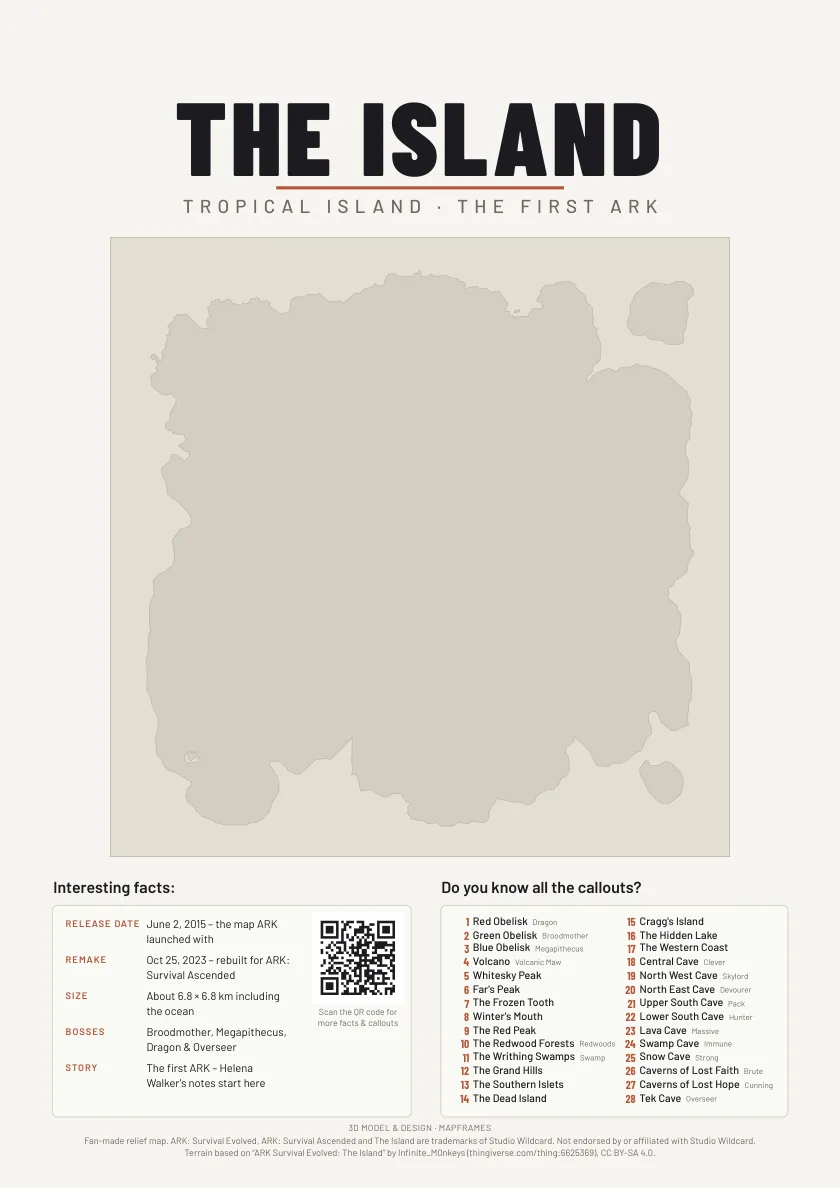
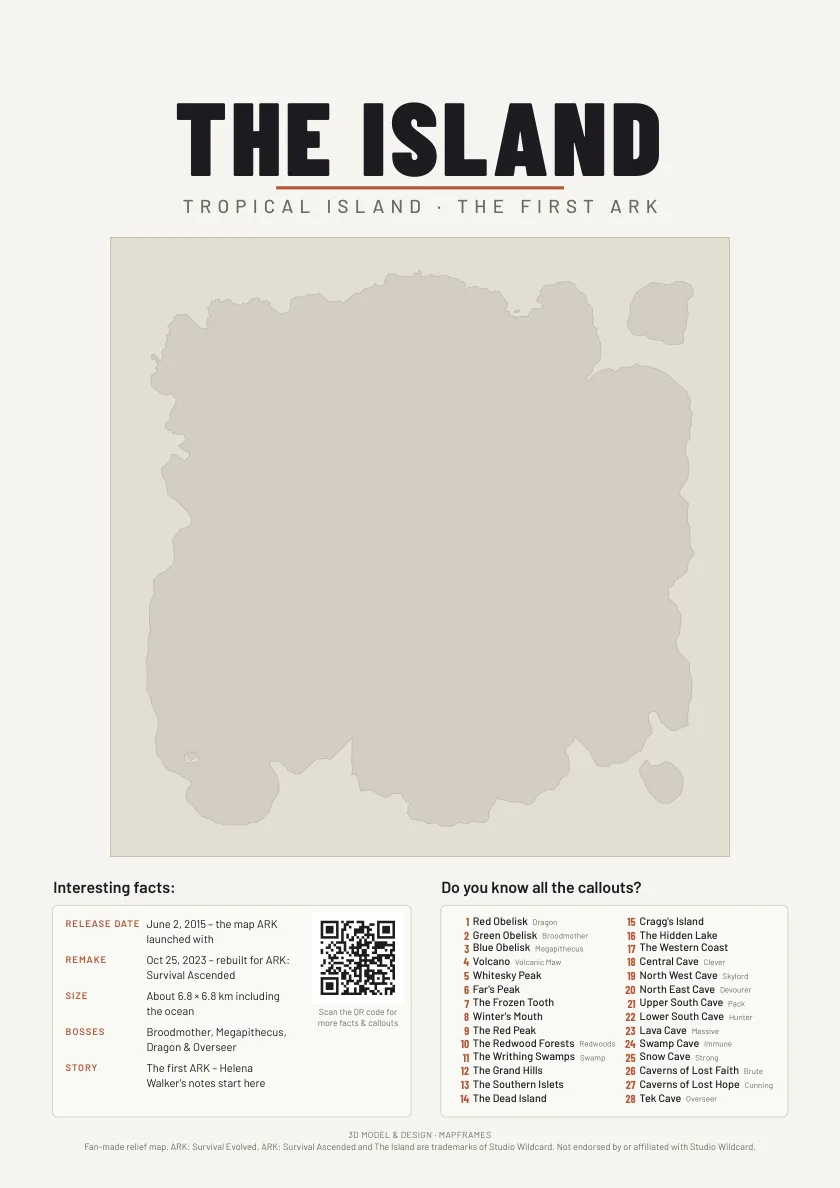
The Island: drop terrain attribution from poster and footer

Changed region(s): [[0.1238, 0.9343, 0.8976, 0.9966]]

diff --git a/the-island/index.html b/the-island/index.html
@@ -47,7 +47,7 @@
 <section class="about wrap"><h2>About The Island</h2><dl class="facts"><div><dt>Release date</dt><dd>June 2, 2015 – the map ARK: Survival Evolved launched with</dd></div><div><dt>Remake</dt><dd>October 25, 2023 – rebuilt in Unreal Engine 5 for ARK: Survival Ascended</dd></div><div><dt>Size</dt><dd>About 6.8 × 6.8 km including the ocean</dd></div><div><dt>Bosses</dt><dd>Broodmother Lysrix, Megapithecus and the Dragon at the three Obelisks, the Overseer in the Tek Cave</dd></div><div><dt>Story</dt><dd>The first ARK of the story – Helena Walker&#x27;s explorer notes begin here</dd></div><div><dt>The relief</dt><dd>Built from the game&#x27;s Dev Kit terrain, close to true vertical scale (about 0.9×) – no height exaggeration</dd></div></dl></section>
 <section class="more wrap"><h2>All ARK maps</h2><div class="tiles"><a class="tile" href="./" aria-current="page"><span class="im"><img src="../assets/the-island-thumb.webp" alt="" loading="lazy"></span><b>The Island</b><span>ARK: Survival Evolved &amp; Ascended</span><span>42 callouts</span></a></div></section>
 </main>
-<footer><div class="wrap"><span>Mapframes, 3D-printed relief maps. <a href="../frame/">What is in the frame</a></span><span>Fan-made project. ARK: Survival Evolved, ARK: Survival Ascended and all related names are trademarks of Studio Wildcard. Not endorsed by or affiliated with Studio Wildcard. The Island terrain is based on <a href="https://www.thingiverse.com/thing:6625369">“ARK Survival Evolved: The Island” by Infinite_M0nkeys</a>, <a href="https://creativecommons.org/licenses/by-sa/4.0/">CC BY-SA 4.0</a>.</span></div></footer>
+<footer><div class="wrap"><span>Mapframes, 3D-printed relief maps. <a href="../frame/">What is in the frame</a></span><span>Fan-made project. ARK: Survival Evolved, ARK: Survival Ascended and all related names are trademarks of Studio Wildcard. Not endorsed by or affiliated with Studio Wildcard.</span></div></footer>
 <script type="application/json" id="data">{"slug": "the-island", "name": "The Island", "groups": {"Obelisks": "Obelisks", "Peaks": "Peaks", "Regions": "Regions", "Caves": "Caves"}, "callouts": [{"n": "Red Obelisk", "a": "Dragon", "d": "Red tower in the south-west. In single player the Dragon is summoned here.", "note": "", "g": "Obelisks", "p": 1, "x": 11.91, "y": 84.77, "o": 1}, {"n": "Green Obelisk", "a": "Broodmother", "d": "Green tower in the south-east. In single player Broodmother Lysrix is summoned here.", "note": "", "g": "Obelisks", "p": 2, "x": 76.03, "y": 60.35, "o": 1}, {"n": "Blue Obelisk", "a": "Megapithecus", "d": "Blue tower in the snowy north-west. In single player the Megapithecus is summoned here.", "note": "", "g": "Obelisks", "p": 3, "x": 21.48, "y": 21.24, "o": 1}, {"n": "Volcano", "a": "Volcanic Maw", "d": "Active volcano in the middle of the island, about 600 m above the sea – the tallest cone on the relief.", "note": "", "g": "Peaks", "p": 4, "x": 36.18, "y": 42.77, "o": 1}, {"n": "Whitesky Peak", "a": "", "d": "The big snow range in the north-west. Cold, high and full of yetis and wolves.", "note": "", "g": "Peaks", "p": 5, "x": 21.39, "y": 22.51, "o": 1}, {"n": "Far's Peak", "a": "", "d": "Lone mountain in the north-east above the Eastern Forest.", "note": "", "g": "Peaks", "p": 6, "x": 82.23, "y": 31.74, "o": 1}, {"n": "The Frozen Tooth", "a": "", "d": "Rocky mountain north of the big river, between the Volcano and the east coast.", "note": "", "g": "Peaks", "p": 7, "x": 60.3, "y": 33.79, "o": 1}, {"n": "Winter's Mouth", "a": "", "d": "Second snow massif on the north coast, east of Whitesky Peak.", "note": "", "g": "Peaks", "p": 8, "x": 53.56, "y": 16.16, "o": 1}, {"n": "The Red Peak", "a": "", "d": "Mountain in the heart of the Redwood Forests, south of the big river.", "note": "", "g": "Peaks", "p": 9, "x": 47.75, "y": 57.52, "o": 1}, {"n": "The Redwood Forests", "a": "Redwoods", "d": "Giant redwood trees around the Red Peak. Popular base spot – and Thylacoleo country.", "note": "", "g": "Regions", "p": 10, "x": 39.45, "y": 56.4, "o": 1}, {"n": "The Writhing Swamps", "a": "Swamp", "d": "Wet lowland south of the Redwoods with the Swamp Cave – Sarcos, leeches and Titanoboas.", "note": "", "g": "Regions", "p": 11, "x": 42.97, "y": 69.82, "o": 1}, {"n": "The Grand Hills", "a": "", "d": "Rolling hills around the Volcano, north of the big river.", "note": "", "g": "Regions", "p": 12, "x": 40.19, "y": 38.77, "o": 1}, {"n": "The Southern Islets", "a": "", "d": "Chain of small islands and bays along the south coast.", "note": "", "g": "Regions", "p": 13, "x": 59.77, "y": 78.96, "o": 1}, {"n": "The Dead Island", "a": "", "d": "Small separate island off the north-east corner.", "note": "", "g": "Regions", "p": 14, "x": 89.45, "y": 10.74, "o": 1}, {"n": "Cragg's Island", "a": "", "d": "Round island off the south-west tip, next to the Red Obelisk.", "note": "", "g": "Regions", "p": 15, "x": 19.58, "y": 90.62, "o": 1}, {"n": "The Hidden Lake", "a": "", "d": "Small lake tucked into the north-east hills.", "note": "", "g": "Regions", "p": 16, "x": 72.75, "y": 17.72, "o": 1}, {"n": "The Western Coast", "a": "", "d": "Long west shoreline – the classic easy start for new survivors.", "note": "", "g": "Regions", "p": 17, "x": 9.67, "y": 60.16, "o": 1}, {"n": "Central Cave", "a": "", "d": "Standard cave near the Volcano.", "note": "Artifact of the Clever inside.", "g": "Caves", "p": 18, "x": 46.34, "y": 40.04, "o": 1}, {"n": "North West Cave", "a": "", "d": "Standard cave in the far north-west.", "note": "Artifact of the Skylord inside.", "g": "Caves", "p": 19, "x": 13.77, "y": 14.11, "o": 1}, {"n": "North East Cave", "a": "", "d": "Standard cave on the Dead Island in the north-east.", "note": "Artifact of the Devourer inside.", "g": "Caves", "p": 20, "x": 91.31, "y": 8.74, "o": 1}, {"n": "Upper South Cave", "a": "", "d": "Standard cave in the south.", "note": "Artifact of the Pack inside.", "g": "Caves", "p": 21, "x": 57.23, "y": 71.24, "o": 1}, {"n": "Lower South Cave", "a": "", "d": "Standard cave near the south coast.", "note": "Artifact of the Hunter inside.", "g": "Caves", "p": 22, "x": 54.05, "y": 85.35, "o": 1}, {"n": "Lava Cave", "a": "", "d": "Standard cave on the south-east coast, full of lava.", "note": "Artifact of the Massive inside.", "g": "Caves", "p": 23, "x": 92.14, "y": 74.02, "o": 1}, {"n": "Swamp Cave", "a": "", "d": "Hard cave in the swamp – very high-level creatures.", "note": "Artifact of the Immune inside.", "g": "Caves", "p": 24, "x": 35.16, "y": 64.79, "o": 1}, {"n": "Snow Cave", "a": "", "d": "Hard cave in the Whitesky Peak range.", "note": "Artifact of the Strong inside.", "g": "Caves", "p": 25, "x": 28.71, "y": 25.54, "o": 1}, {"n": "Caverns of Lost Faith", "a": "", "d": "Underwater cave off the west coast.", "note": "Artifact of the Brute inside.", "g": "Caves", "p": 26, "x": 3.71, "y": 54.3, "o": 1}, {"n": "Caverns of Lost Hope", "a": "", "d": "Hard underwater cave off the east coast.", "note": "Artifact of the Cunning inside.", "g": "Caves", "p": 27, "x": 95.41, "y": 45.17, "o": 1}, {"n": "Tek Cave", "a": "Overseer", "d": "Entrance inside the Volcano. Leads to the Overseer arena and the ascension.", "note": "", "g": "Caves", "p": 28, "x": 37.26, "y": 41.89, "o": 1}, {"n": "The Footpaw", "a": "", "d": "Peninsula in the south-west shaped like a paw.", "note": "", "g": "Regions", "p": 0, "x": 30.81, "y": 80.47, "o": 1}, {"n": "Southern Jungle", "a": "", "d": "Dense jungle in the south-west.", "note": "", "g": "Regions", "p": 0, "x": 15.38, "y": 75.68, "o": 1}, {"n": "Weathertop", "a": "", "d": "Hill on the Footpaw peninsula.", "note": "", "g": "Regions", "p": 0, "x": 30.37, "y": 76.81, "o": 1}, {"n": "Drayo's Cove", "a": "", "d": "Small bay on the south-east coast near the Lava Cave.", "note": "", "g": "Regions", "p": 0, "x": 87.7, "y": 73.83, "o": 1}, {"n": "Smuggler's Pass", "a": "", "d": "Pass through the north-east hills.", "note": "", "g": "Regions", "p": 0, "x": 69.82, "y": 30.22, "o": 1}, {"n": "The Frozen Sea", "a": "", "d": "Icy coast and floes north-west of Whitesky Peak.", "note": "", "g": "Regions", "p": 0, "x": 10.84, "y": 12.5, "o": 1}, {"n": "The Maw", "a": "", "d": "Lowland around the big river south of the Frozen Tooth.", "note": "", "g": "Regions", "p": 0, "x": 59.77, "y": 41.7, "o": 1}, {"n": "The Gulch of Lamentation", "a": "", "d": "Ravine on the east coast.", "note": "", "g": "Regions", "p": 0, "x": 90.97, "y": 52.44, "o": 1}, {"n": "The Eastern Forest", "a": "", "d": "Forest covering the east of the island.", "note": "", "g": "Regions", "p": 0, "x": 80.57, "y": 48.0, "o": 1}, {"n": "Northern Shores", "a": "", "d": "North-east coast and hills.", "note": "", "g": "Regions", "p": 0, "x": 71.0, "y": 23.44, "o": 1}, {"n": "The Western Plains", "a": "", "d": "Open grassland west of the Volcano.", "note": "", "g": "Regions", "p": 0, "x": 24.61, "y": 40.19, "o": 1}, {"n": "The Western Approach", "a": "", "d": "Hills between the west coast and the swamp.", "note": "", "g": "Regions", "p": 0, "x": 20.07, "y": 54.3, "o": 1}, {"n": "The Frigid Plains", "a": "", "d": "Snowy plain between the two northern snow massifs.", "note": "", "g": "Regions", "p": 0, "x": 41.11, "y": 17.29, "o": 1}, {"n": "The Frozen Fang", "a": "", "d": "Icy peak at the heart of Winter's Mouth.", "note": "", "g": "Regions", "p": 0, "x": 53.91, "y": 18.26, "o": 1}]}</script>
 <script src="../assets/map.js"></script>
 </body>

diff --git a/frame/index.html b/frame/index.html
@@ -35,7 +35,7 @@
 </section>
 <section class="wrap" aria-label="Maps"><h2 class="more-h">Find the callouts for your map</h2><div class="tiles"><a class="tile" href="../abyss/"><span class="im"><img src="../assets/abyss-thumb.webp" alt="" loading="lazy"></span><b>Abyss</b><span>Jan Mayen, Norway</span><span>23 callouts</span></a><a class="tile" href="../ascent/"><span class="im"><img src="../assets/ascent-thumb.webp" alt="" loading="lazy"></span><b>Ascent</b><span>Venice, Italy</span><span>68 callouts</span></a><a class="tile" href="../bind/"><span class="im"><img src="../assets/bind-thumb.webp" alt="" loading="lazy"></span><b>Bind</b><span>Rabat, Morocco</span><span>28 callouts</span></a><a class="tile" href="../breeze/"><span class="im"><img src="../assets/breeze-thumb.webp" alt="" loading="lazy"></span><b>Breeze</b><span>Bermuda Triangle, Atlantic</span><span>23 callouts</span></a><a class="tile" href="../fracture/"><span class="im"><img src="../assets/fracture-thumb.webp" alt="" loading="lazy"></span><b>Fracture</b><span>New Mexico, USA</span><span>22 callouts</span></a><a class="tile" href="../haven/"><span class="im"><img src="../assets/haven-thumb.webp" alt="" loading="lazy"></span><b>Haven</b><span>Thimphu, Bhutan</span><span>29 callouts</span></a><a class="tile" href="../icebox/"><span class="im"><img src="../assets/icebox-thumb.webp" alt="" loading="lazy"></span><b>Icebox</b><span>Bennett Island, Russia</span><span>25 callouts</span></a><a class="tile" href="../lotus/"><span class="im"><img src="../assets/lotus-thumb.webp" alt="" loading="lazy"></span><b>Lotus</b><span>Western Ghats, India</span><span>28 callouts</span></a><a class="tile" href="../pearl/"><span class="im"><img src="../assets/pearl-thumb.webp" alt="" loading="lazy"></span><b>Pearl</b><span>Lisbon, Portugal</span><span>26 callouts</span></a><a class="tile" href="../split/"><span class="im"><img src="../assets/split-thumb.webp" alt="" loading="lazy"></span><b>Split</b><span>Tokyo, Japan</span><span>24 callouts</span></a><a class="tile" href="../sunset/"><span class="im"><img src="../assets/sunset-thumb.webp" alt="" loading="lazy"></span><b>Sunset</b><span>Los Angeles, USA</span><span>17 callouts</span></a><a class="tile" href="../the-island/"><span class="im"><img src="../assets/the-island-thumb.webp" alt="" loading="lazy"></span><b>The Island</b><span>ARK: Survival Evolved &amp; Ascended</span><span>42 callouts</span></a></div></section>
 </main>
-<footer><div class="wrap"><span>Mapframes, 3D-printed relief maps. <a href="../frame/">What is in the frame</a></span><span>Fan-made project. VALORANT and all related names are trademarks of Riot Games, Inc. Not endorsed by or affiliated with Riot Games. ARK: Survival Evolved, ARK: Survival Ascended and all related names are trademarks of Studio Wildcard. Not endorsed by or affiliated with Studio Wildcard. The Island terrain is based on <a href="https://www.thingiverse.com/thing:6625369">“ARK Survival Evolved: The Island” by Infinite_M0nkeys</a>, <a href="https://creativecommons.org/licenses/by-sa/4.0/">CC BY-SA 4.0</a>.</span></div></footer>
+<footer><div class="wrap"><span>Mapframes, 3D-printed relief maps. <a href="../frame/">What is in the frame</a></span><span>Fan-made project. VALORANT and all related names are trademarks of Riot Games, Inc. Not endorsed by or affiliated with Riot Games. ARK: Survival Evolved, ARK: Survival Ascended and all related names are trademarks of Studio Wildcard. Not endorsed by or affiliated with Studio Wildcard.</span></div></footer>
 <script src="../assets/xv.js"></script>
 </body>
 </html>

diff --git a/index.html b/index.html
@@ -27,7 +27,7 @@
   </div>
 </section>
 </main>
-<footer><div class="wrap"><span>Mapframes, 3D-printed relief maps. <a href="frame/">What is in the frame</a></span><span>Fan-made project. VALORANT and all related names are trademarks of Riot Games, Inc. Not endorsed by or affiliated with Riot Games. ARK: Survival Evolved, ARK: Survival Ascended and all related names are trademarks of Studio Wildcard. Not endorsed by or affiliated with Studio Wildcard. The Island terrain is based on <a href="https://www.thingiverse.com/thing:6625369">“ARK Survival Evolved: The Island” by Infinite_M0nkeys</a>, <a href="https://creativecommons.org/licenses/by-sa/4.0/">CC BY-SA 4.0</a>.</span></div></footer>
+<footer><div class="wrap"><span>Mapframes, 3D-printed relief maps. <a href="frame/">What is in the frame</a></span><span>Fan-made project. VALORANT and all related names are trademarks of Riot Games, Inc. Not endorsed by or affiliated with Riot Games. ARK: Survival Evolved, ARK: Survival Ascended and all related names are trademarks of Studio Wildcard. Not endorsed by or affiliated with Studio Wildcard.</span></div></footer>
 <script>(function(){var b=[].slice.call(document.querySelectorAll('.game-btn')),s=[].slice.call(document.querySelectorAll('.game-sec'));
 function show(g){if(!document.getElementById(g))g=b[0].dataset.game;b.forEach(function(x){x.setAttribute('aria-pressed',x.dataset.game===g)});s.forEach(function(x){x.hidden=x.id!==g});}
 document.documentElement.classList.add('js');b.forEach(function(x){x.addEventListener('click',function(e){e.preventDefault();show(x.dataset.game);history.replaceState(null,'','#'+x.dataset.game)})});
